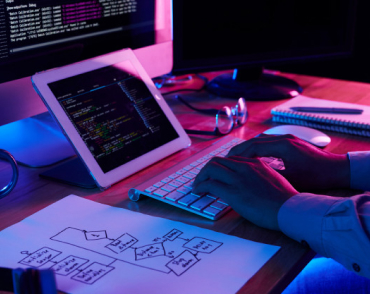
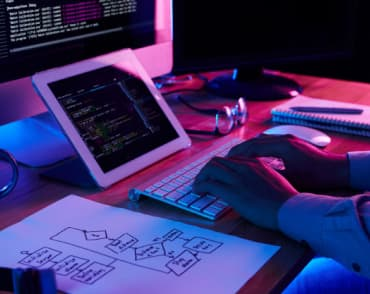
Оптимизация картинок, проверка кода в валидаторе

diff --git a/index.html b/index.html
@@ -26,6 +26,8 @@
             </ul>
         </nav>
 
+<section>
+    <!--contacts-->
 <ul>
     <li>
         <a href="mailto:info@devstudio.com">info@devstudio.com</a>
@@ -34,7 +36,9 @@
         <a href="tel:+380961111111">+38 096 111 11 11"</a>
     </li>
 </ul>
-   </header> 
+</section>
+</header> 
+
 <main>
 
     <section>
@@ -47,20 +51,27 @@
     <section> 
     <!--advantage-->
         <div>
+            <ul>
+                <li>
             <h3>Внимание к деталям</h3>
             <p>Идейные соображения, а также начало повседневной работы по формированию позиции.</p>
-        </div>
-        <div>
+                </li>
+
+                <li>
             <h3>Пунктуальность</h3>
             <p>Задача организации, в особенности же рамки и место обучения кадров влечет за собой.</p>
-        </div>
-        <div>
+                </li>
+       
+                <li>
             <h3>Планирование</h3>
             <p>Равным образом консультация с широким активом в значительной степени обуславливает.</p>
-        </div>
-        <div>
+                </li>
+        
+                <li>
             <h3>Современные технологии</h3>
             <p>Значимость этих проблем настолько очевидна, что реализация плановых заданий.</p>
+                </li>
+            </ul>
         </div>
 
     </section>
@@ -68,31 +79,66 @@
     <section>
     <!--what are we doing-->
         <h2>Чем мы занимаемся</h2>
+        <ul>
+            <li>
         <a href="">
             <img src="./images/box 1.jpg" alt="планшет на столе"
             width="370"
             height="294">
         </a>
+        </li>
+        <li>
         <a href="">
             <img src="./images/box 2.jpg" alt="телефон в руке"
             width="370"
             height="294">
         </a>
+        </li>
+        <li>
         <a href="">
             <img src="./images/box 3.jpg" alt="планшет в руке"
             width="370"
             height="294">
+        </li>
+         </ul>
         </a>
     </section>
 
     <section>
     <!--our team-->
         <h2>Наша команда</h2>
-        <a href="">
-        <img src="./images/team.jpg" alt="фото сотрудников"
-        width="1170"
-        height="368">
-    </a>
+
+        <ul>
+            <li>
+                <a href="">
+                    <img src="./images/img.jpg" alt="Игорь Демьяненко фото">
+                </a>
+                <p>Игорь Демьяненко</p>
+                <p>Product Designer</p>
+            </li>
+            <li>
+                <a href="">
+                    <img src="./images/img (1).jpg" alt="Ольга Репина фото">
+                </a>
+                <p>Ольга Репина</p>
+                <p>Frontend Developer</p>
+            </li>
+            <li>
+                <a href="">
+                    <img src="./images/img (2).jpg" alt="Николай Тарасов фото">
+                </a>
+                <p>Николай Тарасов</p>
+                <p>Marketing</p>
+            </li>
+            <li>
+                <a href="">
+                    <img src="./images/img (3).jpg" alt="Михаил Ермаков фото">
+                </a>
+                <p>Михаил Ермаков</p>
+                <p>UI Designer</p>
+            </li>
+        </ul>
+    
     </section>
 
 </main>
@@ -102,9 +148,17 @@
     <img src="./images/logo.jpg" alt="logo">
 </a>
  <address>
-    г. Киев, пр-т Леси Украинки, 26 </br>
-    info@example.com </br>
-    +38 099 111 11 11
+     <ul>
+         <li>г. Киев, пр-т Леси Украинки, 26</li>
+         <li>
+             <a href="mailto:info@example.com ">info@example.com</a>
+         </li>
+         <li> 
+             <a href="tel:+380991111111">+38 099 111 11 11</a>
+         </li>   
+    
+    </ul>
+
  </address>
 </footer>
 
